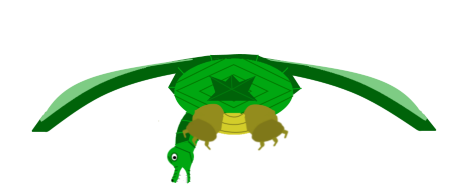
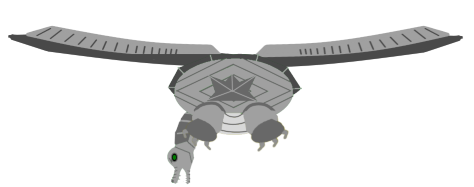
replaced the baby dragon and neon pidgeon animations with robot sprites, and tested them

Changed region(s): [[0.0, 0.1337, 0.9747, 0.9893]]

diff --git a/assets/levels/theConstruct/theConstruct.js b/assets/levels/theConstruct/theConstruct.js
@@ -6,8 +6,8 @@ class TheConstruct extends Level
         
         this.shockerCount = 7; //this is actually required, as you can change it to change difficulty during the level
         this.shockerIndexes = {
-            from: 1,
-            to: 7
+            from: 3,
+            to: 8
         };
     }
     
@@ -22,13 +22,13 @@ class TheConstruct extends Level
         
         //models.push(new NeonPidgeon(0));
         //models.push(new Falcon(0));
-        //models.push(new LavaBall());
-        //models.push(new BabyDragon(0, 1));
-        //this.monsterIndex = 1;
+        models.push(new LavaBall());
+        models.push(new BabyDragon(0, 1));
+        this.monsterIndex = 2;
         
         for(let i = this.shockerIndexes.from; i <= this.shockerIndexes.to; i++)
         {
-            models.push(new Shocker("purple", "static"));
+            models.push(new Shocker("yellow", "static"));
         }
         
         return models;
@@ -54,7 +54,7 @@ class TheConstruct extends Level
         kernel.graphicEn.setLightLuminosity(this.tunnelLightBrightness);
         
         this.createStartingTunnel([
-            this.newTunnelPart("#ff0000", 80),
+            this.newTunnelPart("#0000ff", 80),
             this.newTunnelPart("#000000", 20)
         ]);
     }
@@ -69,20 +69,20 @@ class TheConstruct extends Level
         
         //tunnel stuff
         this.continueTunnel([
-            this.newTunnelPart("#ff0000", 80),
+            this.newTunnelPart("#0000ff", 80),
             this.newTunnelPart("#000000", 20)
         ]);
         
         this.sendShockers(this.shockerIndexes.from, this.shockerIndexes.to);
         
-        // if(getTotalSeconds() >= 2 && getTotalSeconds() <= 3 && !kernel.loadedModels[this.monsterIndex].entering)
-        // {
-        //     kernel.loadedModels[this.monsterIndex].start(); 
-        // }
+        if(getTotalSeconds() >= 2 && getTotalSeconds() <= 3 && !kernel.loadedModels[this.monsterIndex].entering)
+        {
+            kernel.loadedModels[this.monsterIndex].start(); 
+        }
         
-        // if(getTotalSeconds() >= 60 && !kernel.loadedModels[this.monsterIndex].exiting && kernel.loadedModels[this.monsterIndex].active)
-        // {
-        //     kernel.loadedModels[this.monsterIndex].stop();
-        // }
+        if(getTotalSeconds() >= 60 && !kernel.loadedModels[this.monsterIndex].exiting && kernel.loadedModels[this.monsterIndex].active)
+        {
+            kernel.loadedModels[this.monsterIndex].stop();
+        }
     }
 }

diff --git a/assets/models/monsters/neonPidgeon/neonPidgeon.js b/assets/models/monsters/neonPidgeon/neonPidgeon.js
@@ -46,7 +46,7 @@ class NeonPidgeon extends Monster {
             this.rise
         ];
         
-        this.enterXSpeed = 240;
+        this.enterXSpeed = 90;
         this.offScreenUnits = (this.specialLevel) ? xUnit(500) : xUnit(800);
         this.startY = (this.specialLevel) ? yUnit(250) : yUnit(150);
         this.startX = kernel.level.rightEdge + this.offScreenUnits;

diff --git a/assets/models/monsters/babyDragon/babyDragon.js b/assets/models/monsters/babyDragon/babyDragon.js
@@ -35,7 +35,7 @@ class BabyDragon extends Monster {
         this.startX = kernel.level.rightEdge + this.offScreenUnits;
         
         this.startZ = kernel.loadedModels[this.playerIndex].z;
-        this.enterXSpeed = 240;
+        this.enterXSpeed = 90;
         
         //set the z of the lava ball
         kernel.loadedModels[this.lavaBallIndex].z = this.startZ;
